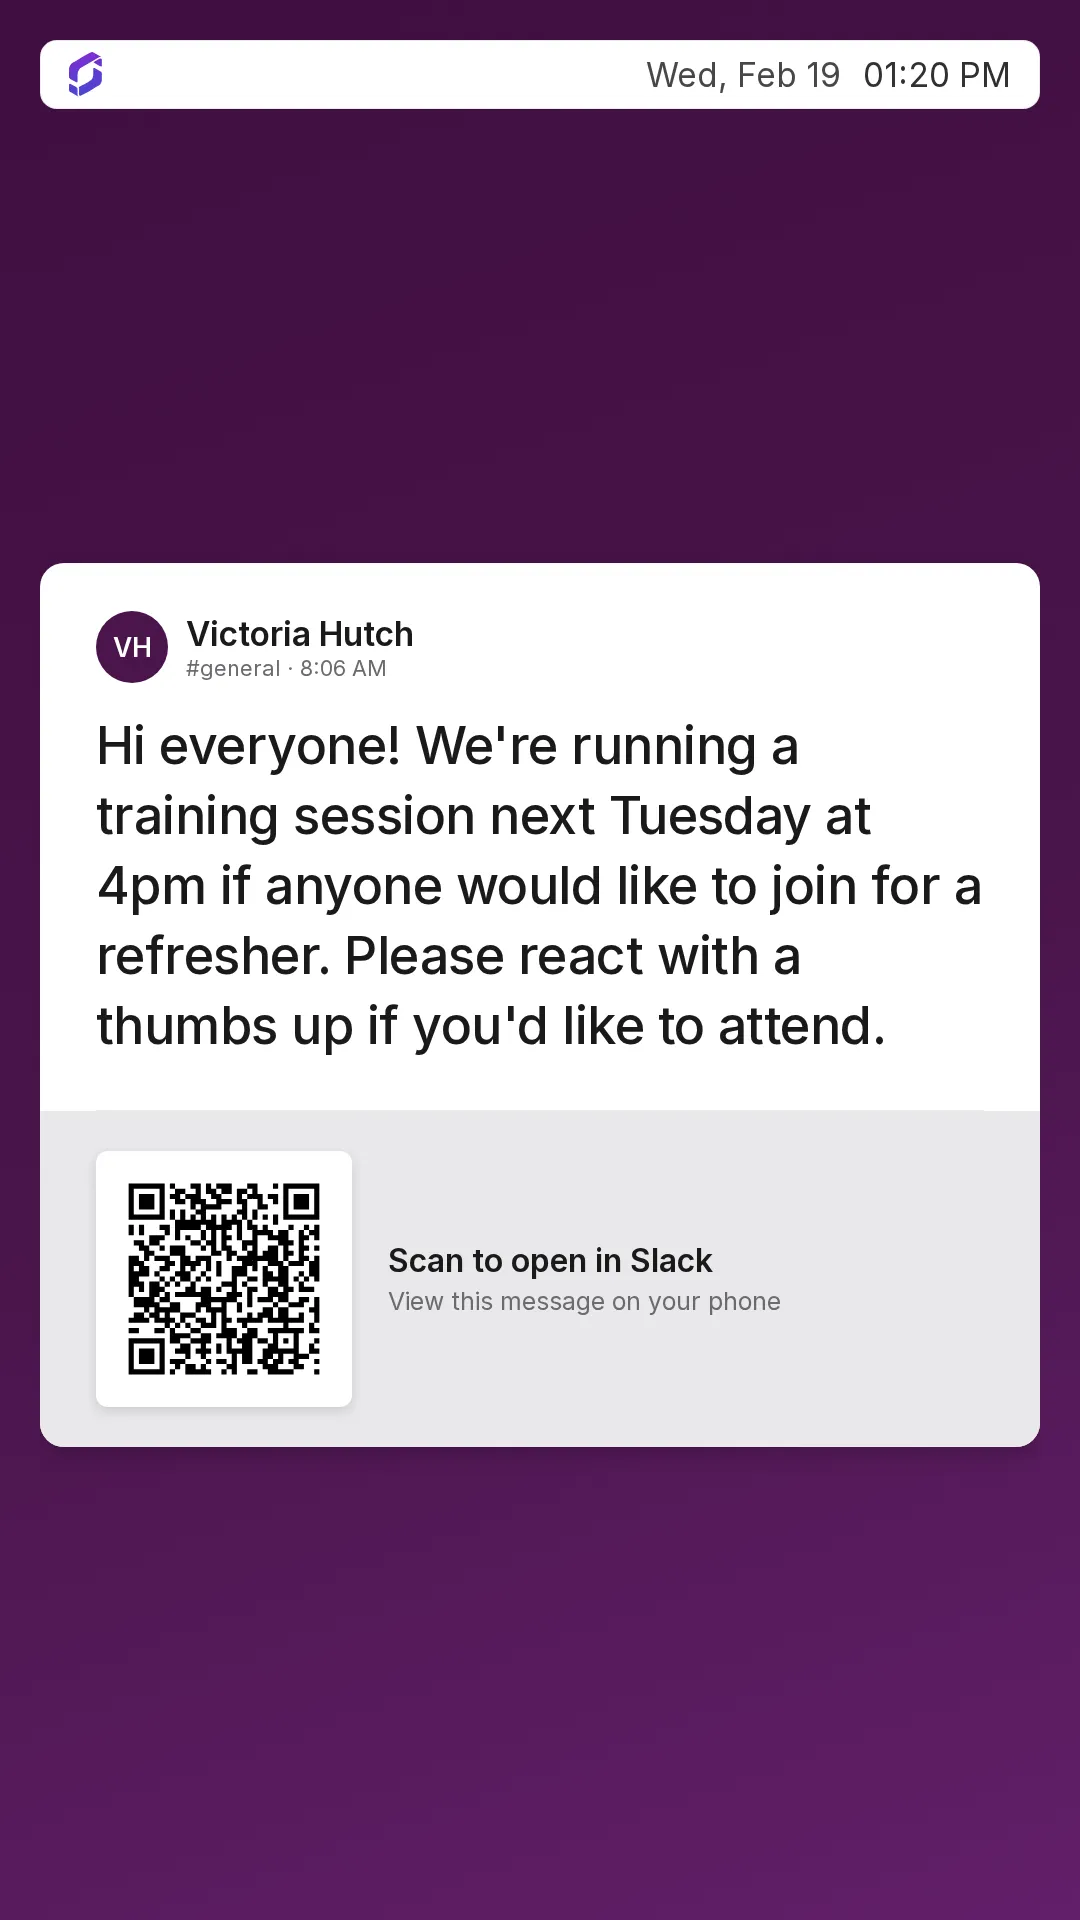
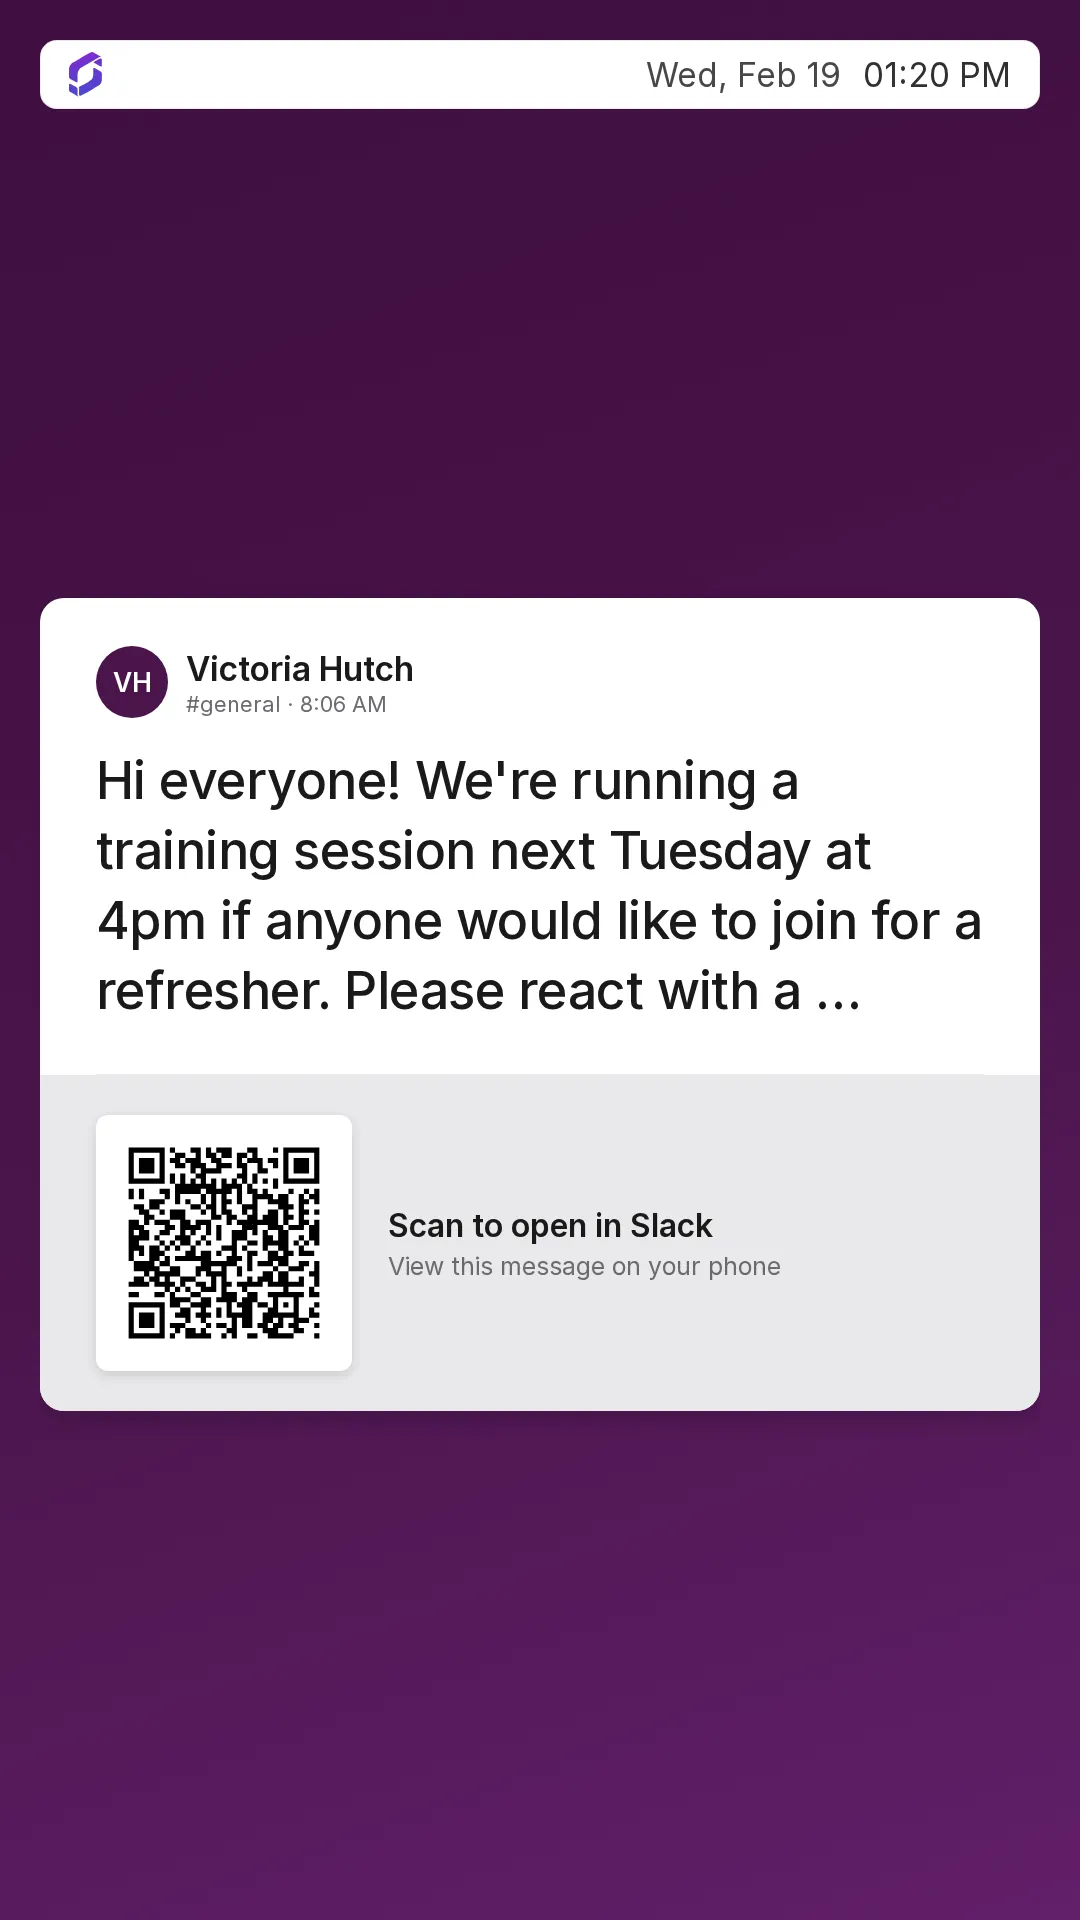
fix: truncate long announcement text with an ellipsis
Clamp .announcement-text to a fixed number of lines (5 landscape,
4 portrait) instead of letting long messages overflow the card.

Changed region(s): [[0.0306, 0.2812, 0.9778, 0.5625], [0.0306, 0.5938, 0.9778, 0.7812], [0.3667, 0.625, 0.7333, 0.6875]]

diff --git a/src/css/style.css b/src/css/style.css
@@ -138,6 +138,10 @@ main {
   color: var(--color-card-text);
   word-break: break-word;
   white-space: pre-wrap;
+  display: -webkit-box;
+  -webkit-box-orient: vertical;
+  -webkit-line-clamp: 5;
+  overflow: hidden;
 }
 
 .mention-user,
@@ -289,6 +293,7 @@ main {
 
   .announcement-text {
     font-size: 3.25rem;
+    -webkit-line-clamp: 4;
   }
 
   .announcement-divider {
